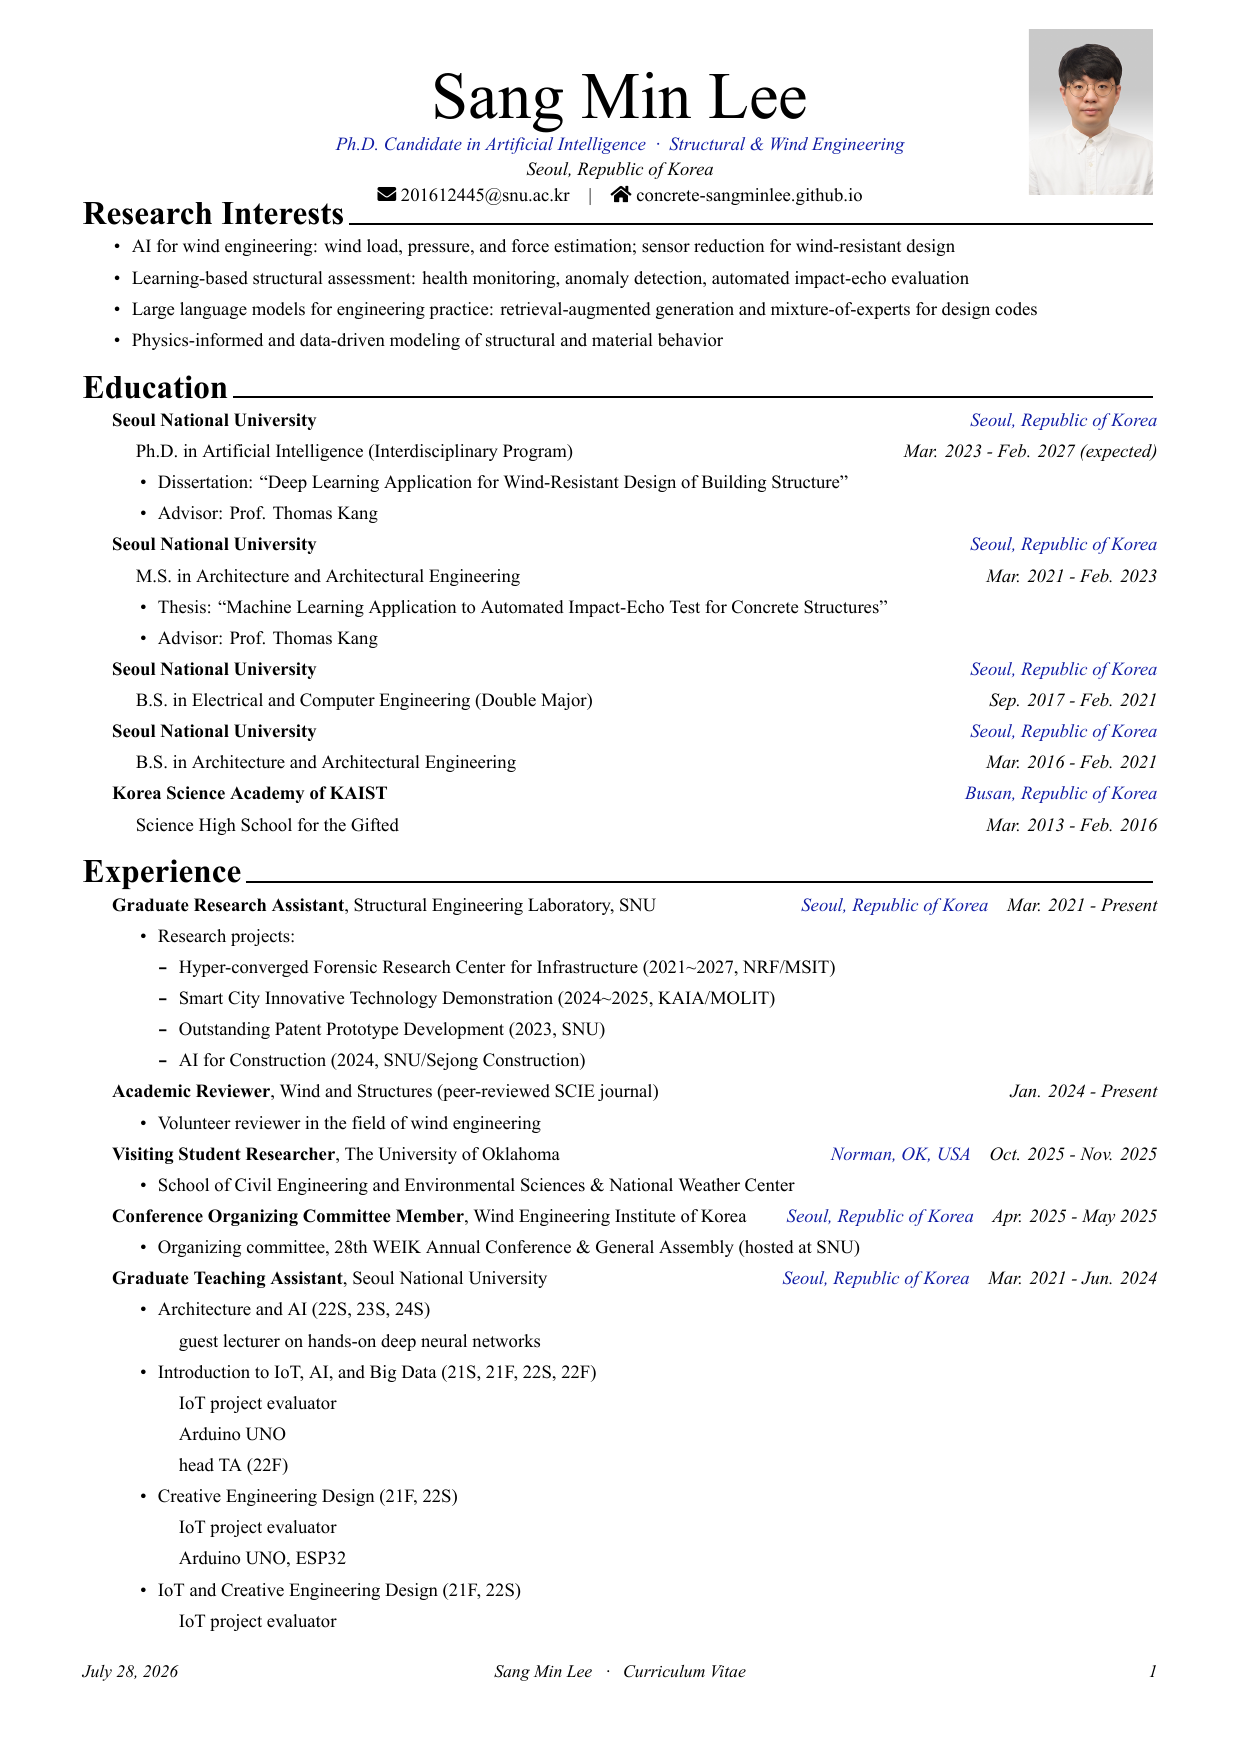
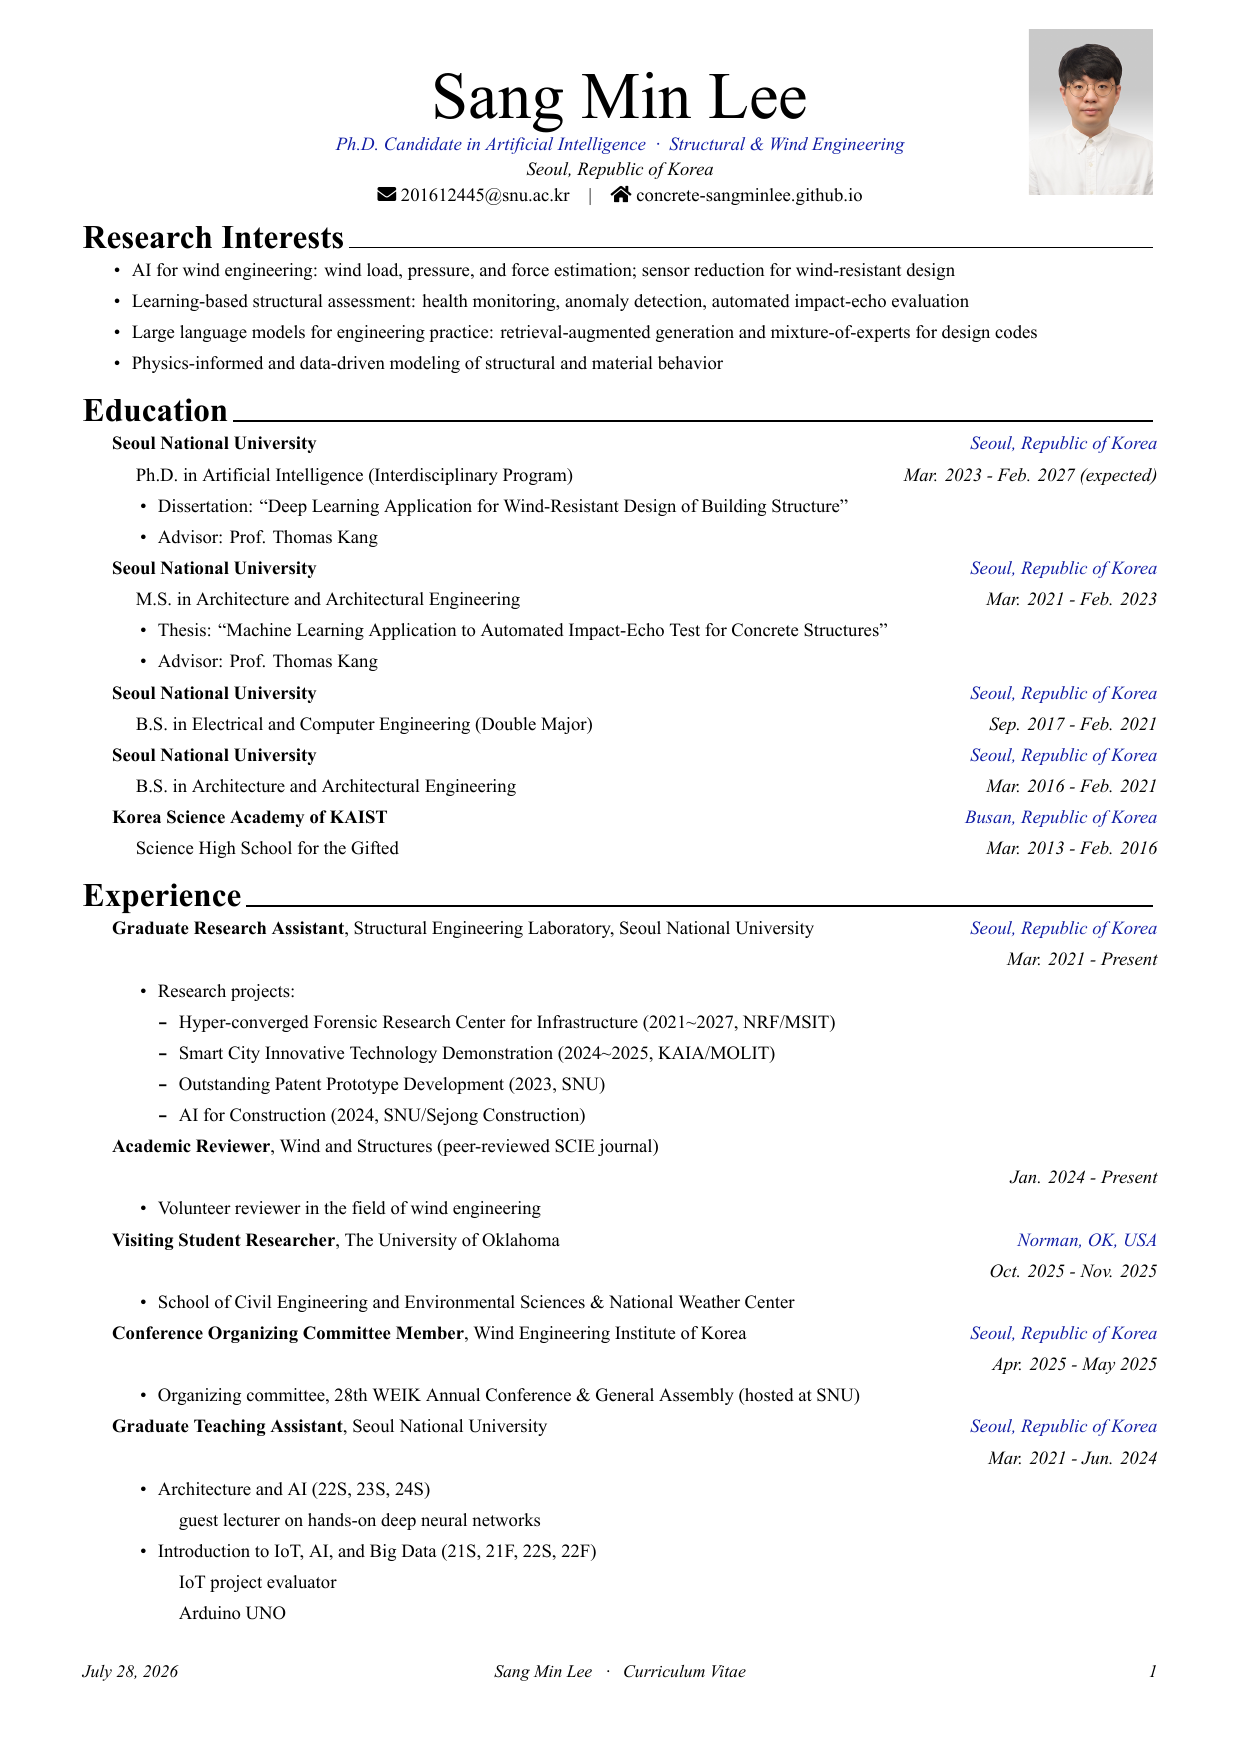
Stack location and date on two lines; add breathing room under header

diff --git a/research-cv/cv/research_experience.tex b/research-cv/cv/research_experience.tex
@@ -10,10 +10,10 @@
 \begin{cventries}
 
   \cventry
-  {\entrytitlestyle{Graduate Research Assistant}, Structural Engineering Laboratory, SNU}
   {}
-  {}
-  {\entrylocationstyle{Seoul, Republic of Korea}\quad Mar. 2021 - Present}
+  {Graduate Research Assistant{\mdseries\color{graytext}, Structural Engineering Laboratory, Seoul National University}}
+  {Seoul, Republic of Korea}
+  {Mar. 2021 - Present}
   {
     \begin{cvitems}
       \item {Research projects:}
@@ -28,8 +28,8 @@
   }
 
   \cventry
-  {\entrytitlestyle{Academic Reviewer}, Wind and Structures (peer-reviewed SCIE journal)}
   {}
+  {Academic Reviewer{\mdseries\color{graytext}, Wind and Structures (peer-reviewed SCIE journal)}}
   {}
   {Jan. 2024 - Present}
   {
@@ -39,10 +39,10 @@
   }
 
   \cventry
-  {\entrytitlestyle{Visiting Student Researcher}, The University of Oklahoma}
   {}
-  {}
-  {\entrylocationstyle{Norman, OK, USA}\quad Oct. 2025 - Nov. 2025}
+  {Visiting Student Researcher{\mdseries\color{graytext}, The University of Oklahoma}}
+  {Norman, OK, USA}
+  {Oct. 2025 - Nov. 2025}
   {
     \begin{cvitems}
       \item {School of Civil Engineering and Environmental Sciences \& National Weather Center}
@@ -50,10 +50,10 @@
   }
 
   \cventry
-  {\entrytitlestyle{Conference Organizing Committee Member}, Wind Engineering Institute of Korea}
   {}
-  {}
-  {\entrylocationstyle{Seoul, Republic of Korea}\quad Apr. 2025 - May 2025}
+  {Conference Organizing Committee Member{\mdseries\color{graytext}, Wind Engineering Institute of Korea}}
+  {Seoul, Republic of Korea}
+  {Apr. 2025 - May 2025}
   {
     \begin{cvitems}
       \item {Organizing committee, 28th WEIK Annual Conference \& General Assembly (hosted at SNU)}
@@ -61,10 +61,10 @@
   }
 
   \cventry
-  {\entrytitlestyle{Graduate Teaching Assistant}, Seoul National University}
   {}
-  {}
-  {\entrylocationstyle{Seoul, Republic of Korea}\quad Mar. 2021 - Jun. 2024}
+  {Graduate Teaching Assistant{\mdseries\color{graytext}, Seoul National University}}
+  {Seoul, Republic of Korea}
+  {Mar. 2021 - Jun. 2024}
   {
     \begin{cvitems}
       \item {Architecture and AI (22S, 23S, 24S)}
@@ -115,10 +115,10 @@
   }
 
   \cventry
-  {\entrytitlestyle{Undergraduate Research Assistant}, Seoul National University}
   {}
-  {}
-  {\entrylocationstyle{Seoul, Republic of Korea}\quad Dec. 2018 - Feb. 2021}
+  {Undergraduate Research Assistant{\mdseries\color{graytext}, Seoul National University}}
+  {Seoul, Republic of Korea}
+  {Dec. 2018 - Feb. 2021}
   {
     \begin{cvitems}
       \item {HpSE, SNU (2021)}
@@ -140,10 +140,10 @@
   }
 
   \cventry
-  {\entrytitlestyle{Research Engineer (Intern)}, Chungyeon Architects}
   {}
-  {}
-  {\entrylocationstyle{Seoul, Republic of Korea}\quad Jul. 2018 - Aug. 2018}
+  {Research Engineer (Intern){\mdseries\color{graytext}, Chungyeon Architects}}
+  {Seoul, Republic of Korea}
+  {Jul. 2018 - Aug. 2018}
   {
     \begin{cvitems}
       \item {Data analysis for building energy performance evaluation (ECO2, AutoCAD, Python)}

diff --git a/research-cv/cv.tex b/research-cv/cv.tex
@@ -164,6 +164,7 @@
 % Print the header with above personal information
 % Give optional argument to change alignment(C: center, L: left, R: right)
 \makecvheader
+\vspace{4mm}
 % Print the footer with 3 arguments(<left>, <center>, <right>)
 % Leave any of these blank if they are not needed
 \makecvfooter

diff --git a/README.md b/README.md
@@ -18,6 +18,7 @@
   <img src="docs/preview.png" width="250" alt="CV — page 1">
   <img src="docs/preview-2.png" width="250" alt="CV — page 2">
   <img src="docs/preview-3.png" width="250" alt="CV — page 3">
+  <img src="docs/preview-4.png" width="250" alt="CV — page 4">
 </p>
 
 <p align="center">
